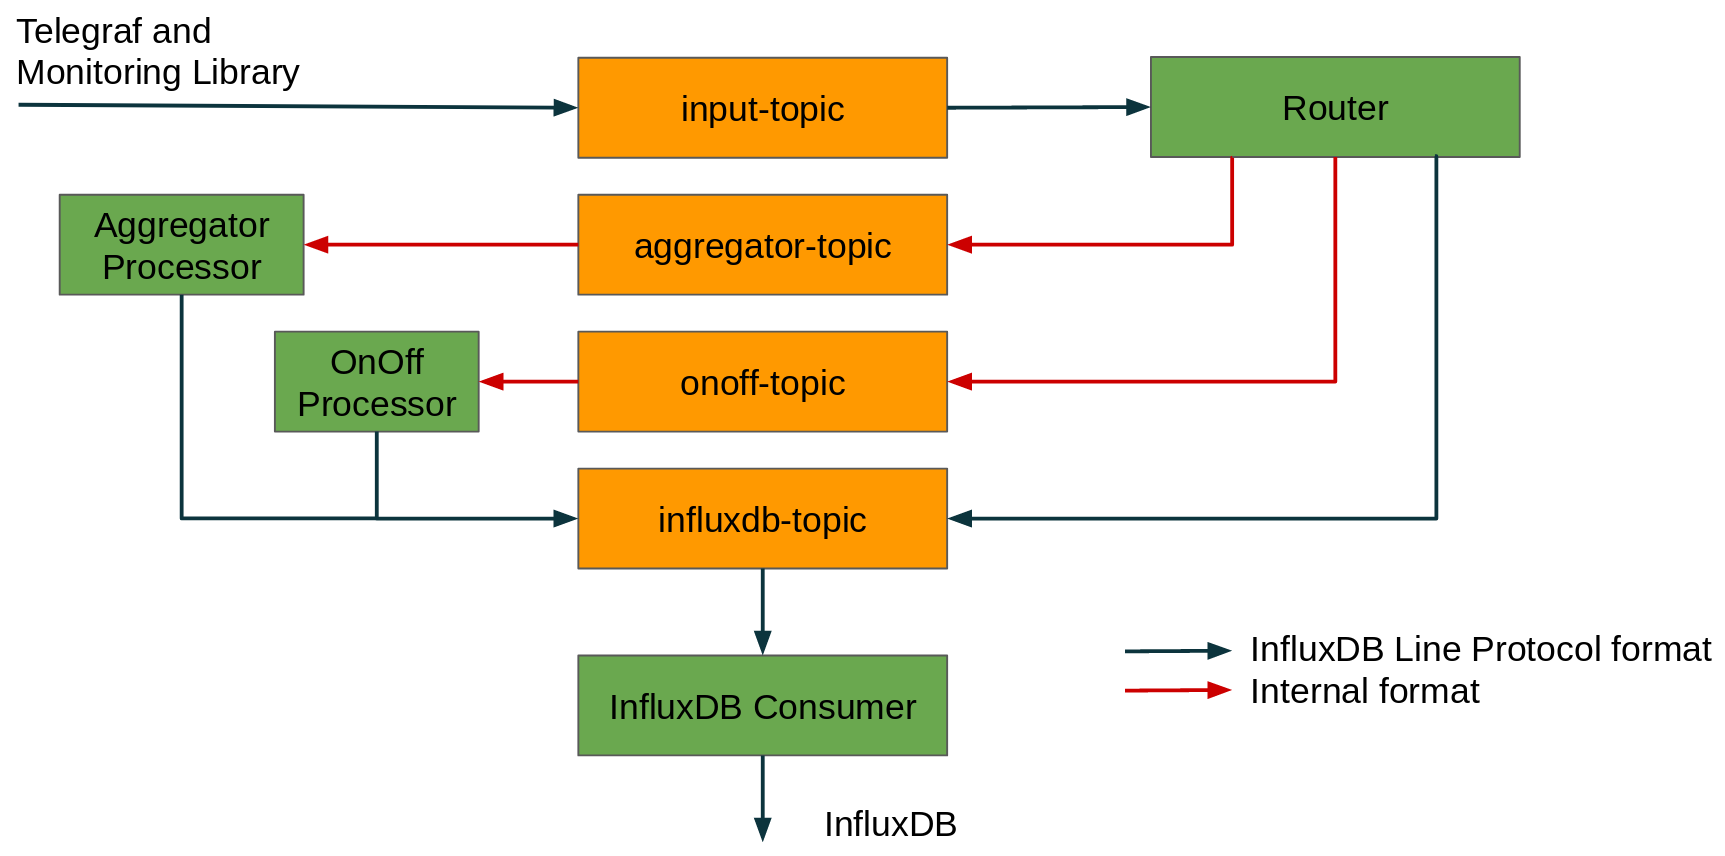
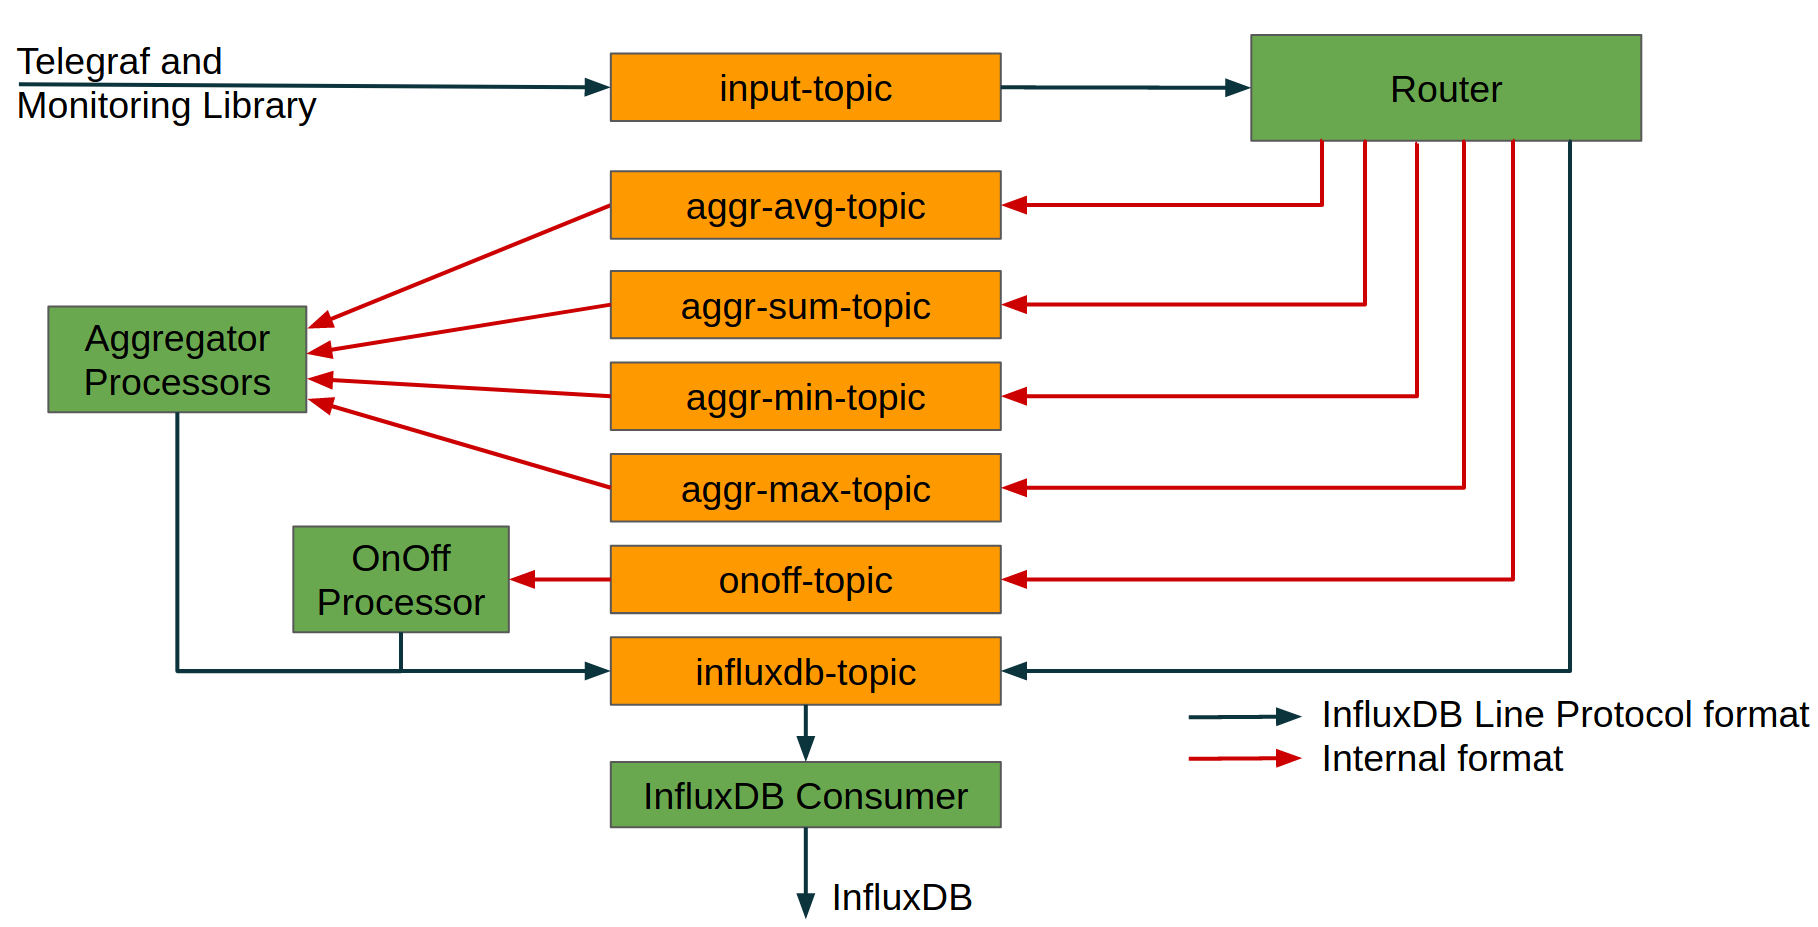
Added new kafka system fig and update internal format section

Changed region(s): [[0.0, 0.0304, 1.0, 1.0]]

diff --git a/doc/system-implementation-new.md b/doc/system-implementation-new.md
@@ -150,13 +150,13 @@ Integer, double, boolean and string data type fields are supported.
 ##### 3.3.6.2 Internal Format
 This format has been created in order to take advantage of the policy used from Kafka to split up messages among the topic partitions. Inserting a dedicated key in the message is possible to ensure that all messages having the same key will be in the same topic partition, making easier process data.
 The internal format is a key-value pair, both string types, where:
-- key: `<measurement_name>#<field_name>`
-- value: `<tags>#<field_value>#<timestamp>`
+- key: `<measurement_name>,<tags>#<field_name>`
+- value: `<field_value>#<timestamp>`
 
 #### 3.3.7 Kafka system
 This section describes how the above components are interconnected among them in order to achieve the required functionalities. Incoming data is received from Telegraf and the Monitoring Library and containing information about systems, processes and applications. Part of this data is supposed to be written directly in the database and another part should be processed using the Aggregator and OnOff Processors before to be sent to the InfluxDB instance. The selection and routing of input data is executed from the Route Component: input messages satisfying specific conditions are sent to the [InfluxDBConsumer](#3351-influxdb-consumer) keeping the same [InfluxDB Line Protocol](#3361-influxdb-line-protocol-format) format of input messages. Same kind of filtering operations are executed before to send input data to [Aggregator Processor](#3354-aggregator-processor) and the [OnOff Processor](#3355-onoff-processor) but in this case messages are converted to the [internal format](#3362-internal-format). The Aggregator and the OnOff Processors read the input data, execute own processing task and send the processed value to the InfluxDB consumer using the [InfluxDB Line Protocol](#3361-influxdb-line-protocol-format) format.
 
-In Kafka, information can be exchanged among components only using topics: each component need at least one topic where read messages. This means that consumers ([InfluxDBConsumer](#3351-influxdb-consumer), [EmailConsumer](#3353-email-consumer)  and [MattermostConsumer](#3352-mattermost-consumer)) have own topics (`influxdb-topic`, `email-topic` and `mattermost-topic`). Likewise, for the [Aggregator Processor](#3354-aggregator-processor) and the [OnOff Processor](#3355-onoff-processor) `aggregator-topic` and `onoff-topic` must be created. To activate a given component, consumer or processor, is necessary at least another component writes data in the input topic(s) related.
+In Kafka, information can be exchanged among components only using topics: each component needs at least one topic where fetch messages. This means that consumers ([InfluxDBConsumer](#3351-influxdb-consumer), [EmailConsumer](#3353-email-consumer)  and [MattermostConsumer](#3352-mattermost-consumer)) have own topics (`influxdb-topic`, `email-topic` and `mattermost-topic`). Likewise, for the [Aggregator Processor](#3354-aggregator-processor) and the [OnOff Processor](#3355-onoff-processor) `aggr-avg-topic`,`aggr-sum-topic`,-aggr-min-topic`,`aggr-max-topic` and `onoff-topic` must be created. To activate a given component, consumer or processor, is necessary at least another component writes data in the input topic(s) related.
 
 The following figure shows what above has been described.
 
